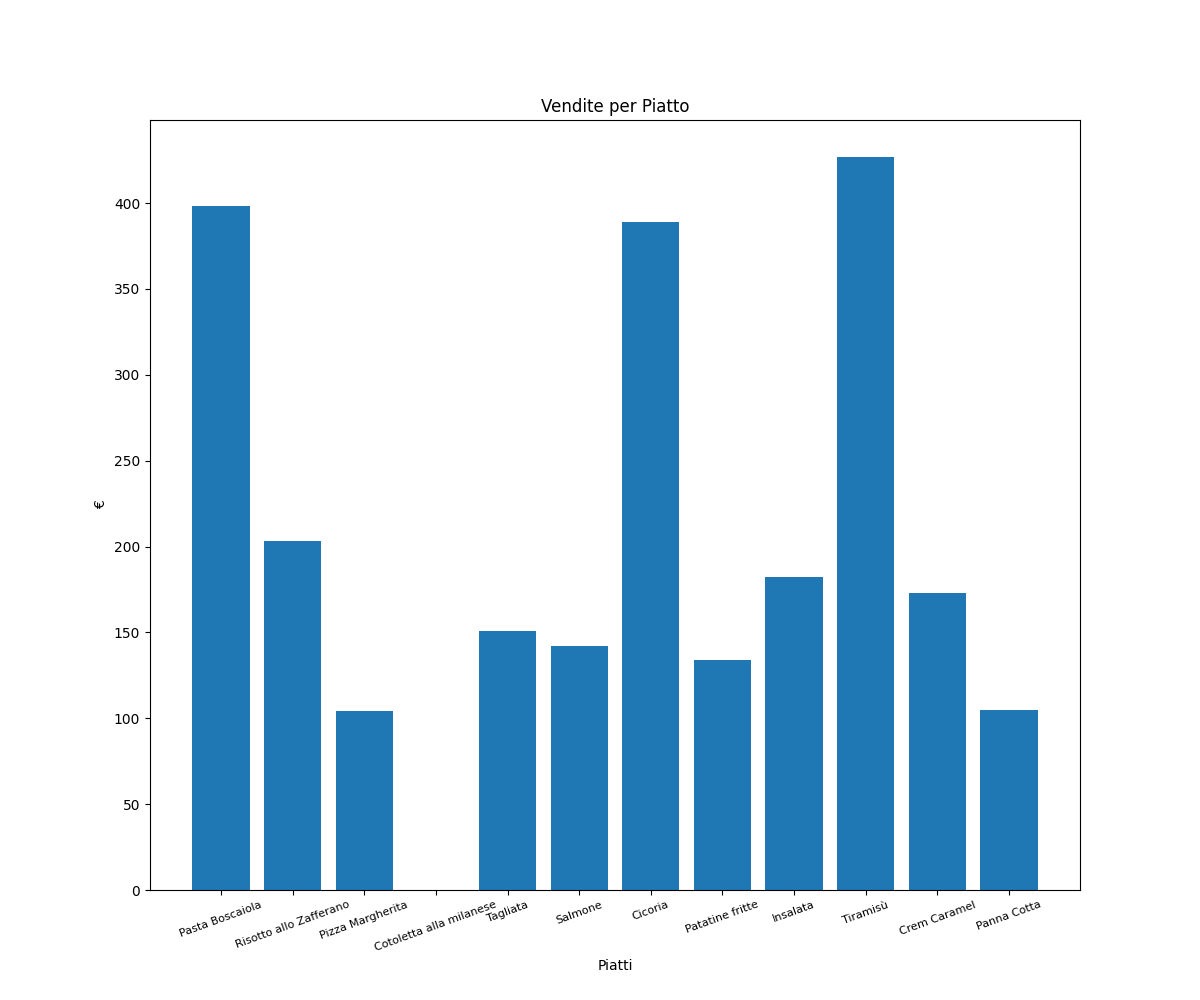
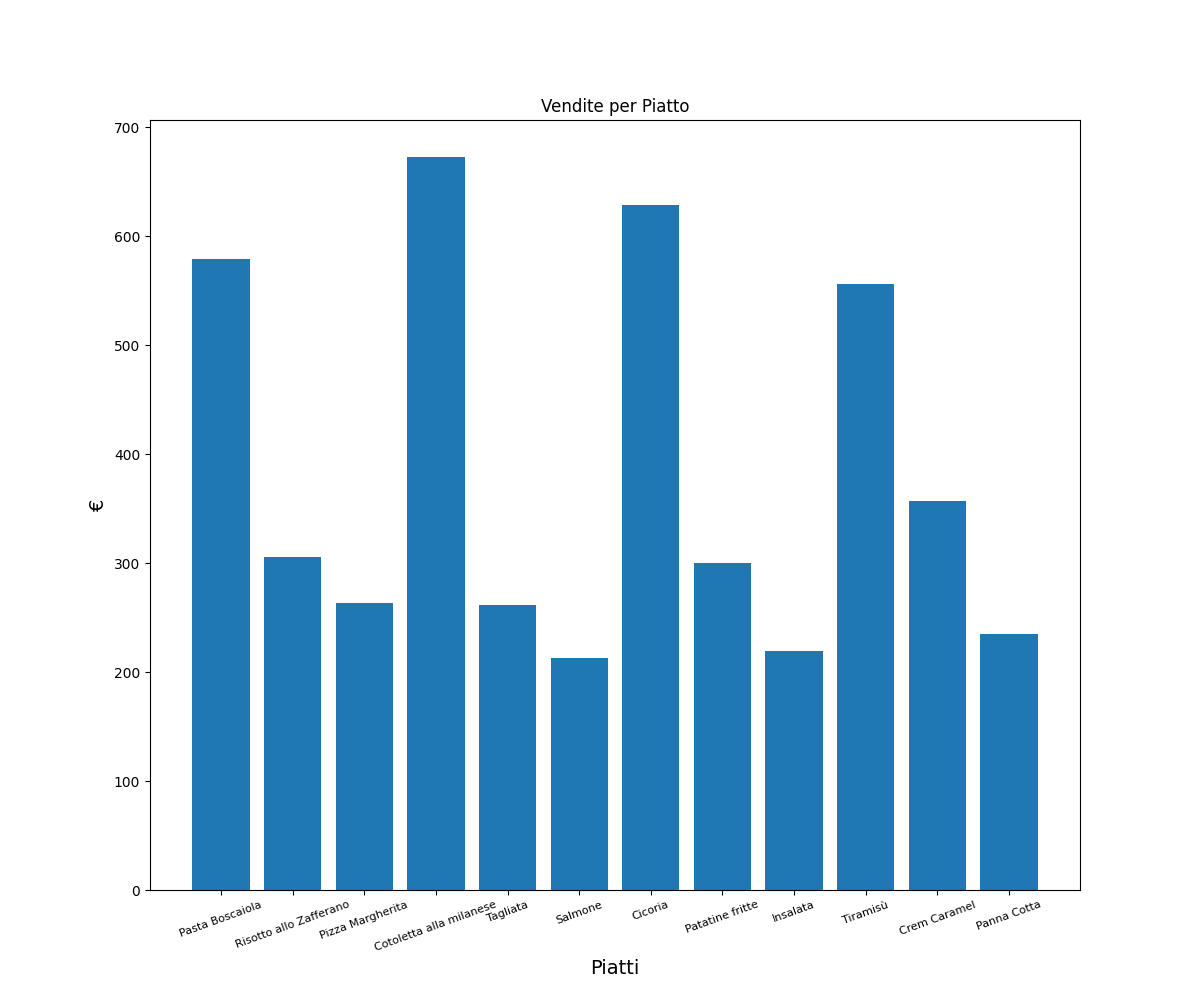
Final

diff --git a/flask_menu.py b/flask_menu.py
@@ -3,9 +3,11 @@ from flask import Flask, render_template, request
 import smtplib
 from email.mime.text import MIMEText
 from email.mime.multipart import MIMEMultipart
+from email.mime.image import MIMEImage
 import matplotlib.pyplot as plt
 import matplotlib
 matplotlib.use('Agg')
+from PIL import Image
 
 
 pwd = "your-db-pwd"
@@ -123,7 +125,15 @@ def invia_email(destinatario, oggetto, corpo):
     message["From"] = sender_email
     message["To"] = destinatario
     message["Subject"] = oggetto
-    message.attach(MIMEText(corpo, "plain"))
+    message.attach(MIMEText(corpo, "html"))
+    # Open the image file in binary mode
+    fp = open('static/email-logo.png', 'rb')
+    msgImage = MIMEImage(fp.read())
+    fp.close()
+
+    # Define the image's ID as referenced above
+    msgImage.add_header('Content-ID', '<email-logo>')
+    message.attach(msgImage)
 
     # Connessione e invio dell'email
     try:
@@ -326,8 +336,7 @@ def stats1():
     # Dati da visualizzare
     labels = dishes
     sizes = dishesCount
-    colors = ['red', 'blue', 'green', 'orange', 'lightblue', 'purple', 'yellow', 'white', 'black', 'lightgreen',
-              'brown', 'lightcyan']
+    colors = ['red', 'blue', 'green', 'orange', 'lightblue', 'purple', 'yellow', 'white', 'black', 'lightgreen', 'brown', 'lightcyan']
 
     plt.figure(figsize=(12, 10))
 
@@ -335,9 +344,43 @@ def stats1():
     plt.pie(sizes, labels=labels, colors=colors, autopct='%1.1f%%')
 
     # Personalizzazione dell'aspetto del grafico
-    plt.title("Percentuale vendite")
+    plt.title("Percentuale vendite", fontsize=14)
 
     plt.savefig('static/pie_chart.png')
+
+    ###################################
+
+    # Multi-pie chart graph
+
+    # Clear previous figure
+    plt.clf()
+
+    # Lists containing the values for the dishes
+    dishesCountPrimi = [dishesCount[0], dishesCount[1], dishesCount[2]]
+    dishesCountSecondi = [dishesCount[3], dishesCount[4], dishesCount[5]]
+    dishesCountContorni = [dishesCount[6], dishesCount[7], dishesCount[8]]
+    dishesCountDolci = [dishesCount[9], dishesCount[10], dishesCount[11]]
+
+    # Lists containing the labels for the dishes
+    dishesPrimi = ["Pasta Boscaiola", "Risotto allo Zafferano", "Pizza Margherita"]
+    dishesSecondi = ["Cotoletta alla milanese", "Tagliata", "Salmone"]
+    dishesContorni = ["Cicoria", "Patatine fritte", "Insalata"]
+    dishesDolci = ["Tiramisù", "Crem Caramel", "Panna Cotta"]
+
+    fig, axes = plt.subplots(2, 2, figsize=(12, 10))
+
+    # plot pie charts on each subplot using the lists
+    axes[0, 0].pie(dishesCountPrimi, labels=dishesPrimi, autopct='%.2f%%', textprops={'fontsize': 8})
+    axes[0, 0].set_title("Primi", fontsize=14)
+    axes[0, 1].pie(dishesCountSecondi, labels=dishesSecondi, autopct='%.2f%%', textprops={'fontsize': 8})
+    axes[0, 1].set_title("Secondi", fontsize=14)
+    axes[1, 0].pie(dishesCountContorni, labels=dishesContorni, autopct='%.2f%%', textprops={'fontsize': 8})
+    axes[1, 0].set_title("Contorni", fontsize=14)
+    axes[1, 1].pie(dishesCountDolci, labels=dishesDolci, autopct='%.2f%%', textprops={'fontsize': 8})
+    axes[1, 1].set_title("Dolci", fontsize=14)
+
+    # save the figure
+    plt.savefig('static/multi-pie-graph.png')
 
     return tot
 
@@ -442,8 +485,8 @@ def stats2():
 
     # Personalizzazione dell'aspetto del grafico
     plt.title("Vendite per Piatto")
-    plt.xlabel("Piatti")
-    plt.ylabel("€")
+    plt.xlabel("Piatti", fontsize=14)
+    plt.ylabel("€", fontsize=14)
     # Set the xtick labels and font size
     plt.xticks(categories, fontsize=8)
     # Rotate the xtick labels by 20 degrees
@@ -463,7 +506,6 @@ def stats3():
 
 @app.route('/stats', methods=['post'])
 def showStats():
-    stats1()
     tot = stats1()
     # Clear the current figure
     plt.clf()
@@ -554,7 +596,19 @@ def accettaRifiuta_ordine():
         mydb.commit()
         # Send email to customer to confirm order
         subj = "Il suo ordine presso Ristorante Trattoria La Bella Roma"
-        body = f"Gentile Cliente,\n\nGrazie per il suo ordine!\nDi seguito trova i dettagli di ciò che ha ordinato:\n\n{primo}, {secondo}, {contorno}, {dolce}. Il totale è: {price}€\n\nQuesto messaggio e gli eventuali allegati sono destinati esclusivamente al destinatario indicato e possono contenere informazioni confidenziali o riservate. Se avete ricevuto questa mail per errore, vi preghiamo di cancellarla immediatamente e di informare il mittente al seguente indirizzo: trattoria@labellaroma.com. Qualsiasi uso non autorizzato del contenuto di questa mail è vietato e può costituire una violazione della legge."
+        body = f"""<p>Gentile Cliente,</p>
+        <p>Grazie per il suo ordine!</p>
+        <p>Di seguito trova i dettagli di ciò che ha ordinato:</p>
+        <ul>
+        <li>{primo}</li>
+        <li>{secondo}</li>
+        <li>{contorno}</li>
+        <li>{dolce}</li>
+        </ul>
+        <p>Il totale è: {price}€</p>
+        <p>Il Team di La Bella Roma</p>
+        <img class="email-logo" src="cid:email-logo" />
+        <p>Questo messaggio e gli eventuali allegati sono destinati esclusivamente al destinatario indicato e possono contenere informazioni confidenziali o riservate. Se avete ricevuto questa mail per errore, vi preghiamo di cancellarla immediatamente e di informare il mittente al seguente indirizzo: trattoria@labellaroma.com. Qualsiasi uso non autorizzato del contenuto di questa mail è vietato e può costituire una violazione della legge.</p>"""
         invia_email(email, subj, body)
     elif rifiuta:
         # Remove the record with the id from the database
@@ -564,7 +618,11 @@ def accettaRifiuta_ordine():
         mydb.commit()
         # Send email to customer to confirm order
         subj = "Ordine presso Ristorante Trattoria La Bella Roma cancellato"
-        body = f"Gentile Cliente,\n\nQuesta email è per informarla che al momento, data la grande richiesta, non siamo in grado di gestire il suo ordine. Ci scusiamo per il disagio e le auguriamo un buon proseguimento.\n\n\nQuesto messaggio e gli eventuali allegati sono destinati esclusivamente al destinatario indicato e possono contenere informazioni confidenziali o riservate. Se avete ricevuto questa mail per errore, vi preghiamo di cancellarla immediatamente e di informare il mittente al seguente indirizzo: trattoria@labellaroma.com. Qualsiasi uso non autorizzato del contenuto di questa mail è vietato e può costituire una violazione della legge."
+        body = f"""<p>Gentile Cliente,</p>
+        <p>Questa email è per informarla che al momento, data la grande richiesta, <b>non siamo in grado di gestire il suo ordine</b>. Ci scusiamo per il disagio e le auguriamo un buon proseguimento.</p>
+        <p>Il Team di La Bella Roma</p>
+        <img class="email-logo" src="cid:email-logo" />
+        <p>Questo messaggio e gli eventuali allegati sono destinati esclusivamente al destinatario indicato e possono contenere informazioni confidenziali o riservate. Se avete ricevuto questa mail per errore, vi preghiamo di cancellarla immediatamente e di informare il mittente al seguente indirizzo: trattoria@labellaroma.com. Qualsiasi uso non autorizzato del contenuto di questa mail è vietato e può costituire una violazione della legge.</p>"""
         invia_email(email, subj, body)
     # Return a response or redirect
     # Query the database for the updated data
